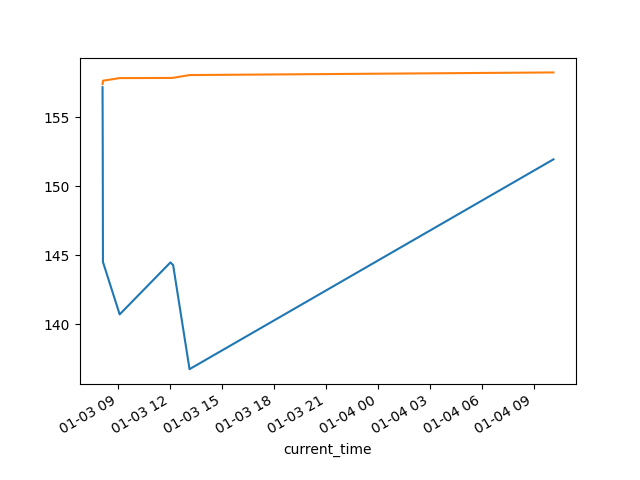
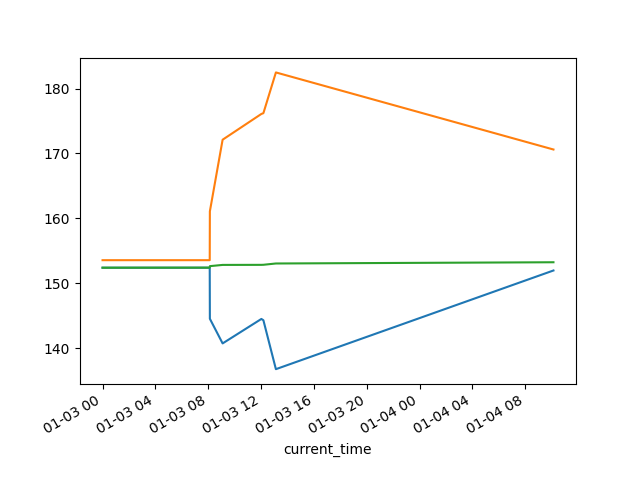
added liablility to graph

diff --git a/graph.py b/graph.py
@@ -7,7 +7,27 @@ RETURNS_CSV = 'returns/returns.csv'
 
 
 def custom_date_parser(x):
+    if '/' not in x:
+        return datetime.datetime(*(time.strptime(x, '%d %b %H:%M %Y')[0:6]))
     return datetime.datetime(*(time.strptime(x, '%d/%m/%Y %H:%M:%S')[0:6]))
+
+
+def calc_unfinished_races(index=-1):
+    in_bet_balance = 0
+    mask = (df['date_of_race'] >
+            df.index.values[index]) & (df.index <= df.index.values[index])
+    races = df.loc[mask]
+    for index, row in races.iterrows():
+        if not row['is_lay']:
+            stake = row['ew_stake'] * 2
+            liability = 0
+        else:
+            stake = row['ew_stake'] + row['win_stake'] + row['place_stake']
+            liability = row['win_stake'] * (row['lay_odds'] -
+                                            1) + row['place_stake'] * (
+                                                row['lay_odds_place'] - 1)
+        in_bet_balance += (stake + liability)
+    return round(in_bet_balance, 2)
 
 
 def output_profit():
@@ -18,7 +38,9 @@ def output_profit():
 
     current_sporting_index_balance = df['balance'].values[-1]
     current_betfair_balance = df['betfair_balance'].values[-1]
-    current_balance = current_sporting_index_balance + current_betfair_balance
+    in_bet_balance = calc_unfinished_races()
+    current_balance = current_sporting_index_balance + current_betfair_balance + in_bet_balance
+
     total_profit = round(current_balance - starting_balance, 2)
     profit_today = round(current_balance - today_starting_balance, 2)
     if total_profit == 0: total_percentage_profit = 0
@@ -36,7 +58,7 @@ def output_profit():
         f'Profit today: £{format(profit_today, ".2f")} ({today_percentage_profit}%)'
     )
     print(
-        f'Sporting index balance: £{current_sporting_index_balance} Betfair balance: £{current_betfair_balance}'
+        f'Sporting index balance: £{current_sporting_index_balance} Betfair balance: £{current_betfair_balance} Balance in bets: £{in_bet_balance}'
     )
 
 
@@ -44,6 +66,11 @@ def plot_bal_time_series_graph():
     # fig, ax = plt.subplots(figsize=(16, 9), dpi=100)
 
     balance = df['balance'] + df['betfair_balance']
+    plt.plot(balance)
+
+    for i, b in enumerate(balance):
+        balance[i] = b + calc_unfinished_races(i)
+
     plt.plot(balance)
 
     expected_return = df['expected_return'] + df['arbritrage_profit']
@@ -60,7 +87,7 @@ def plot_bal_time_series_graph():
 
 df = pd.read_csv(RETURNS_CSV,
                  header=0,
-                 parse_dates=[7],
+                 parse_dates=[7, 0],
                  index_col=7,
                  date_parser=custom_date_parser,
                  squeeze=True)
